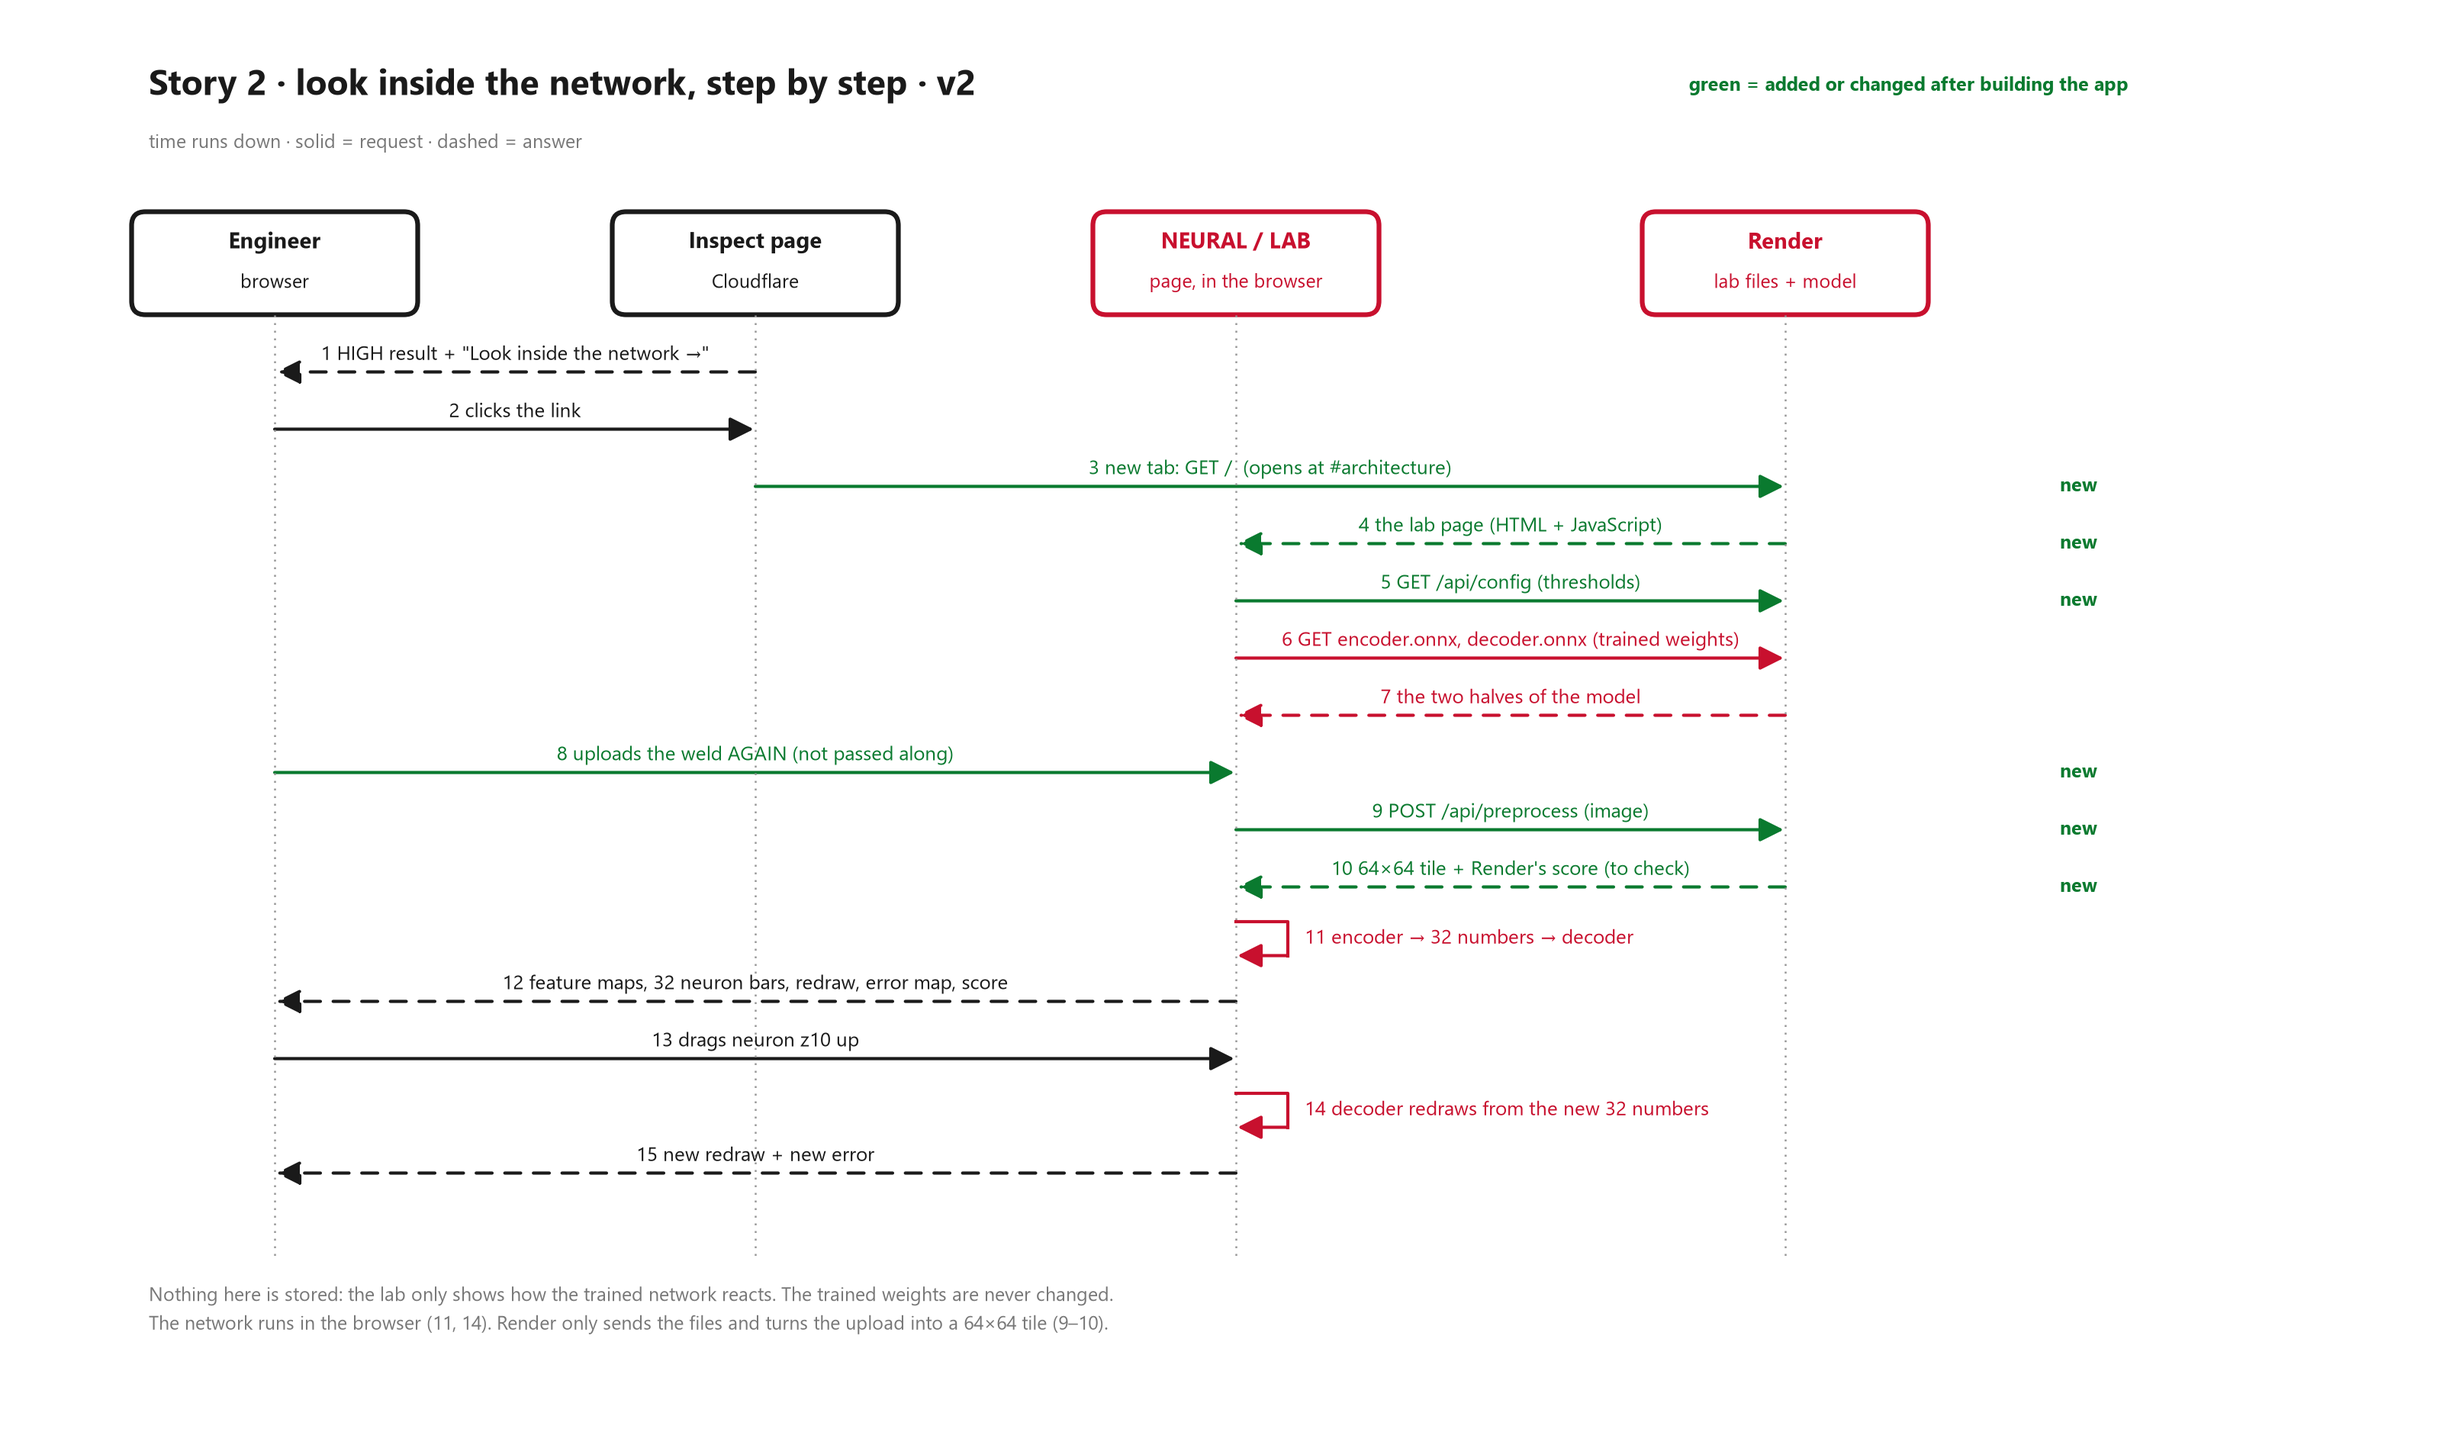
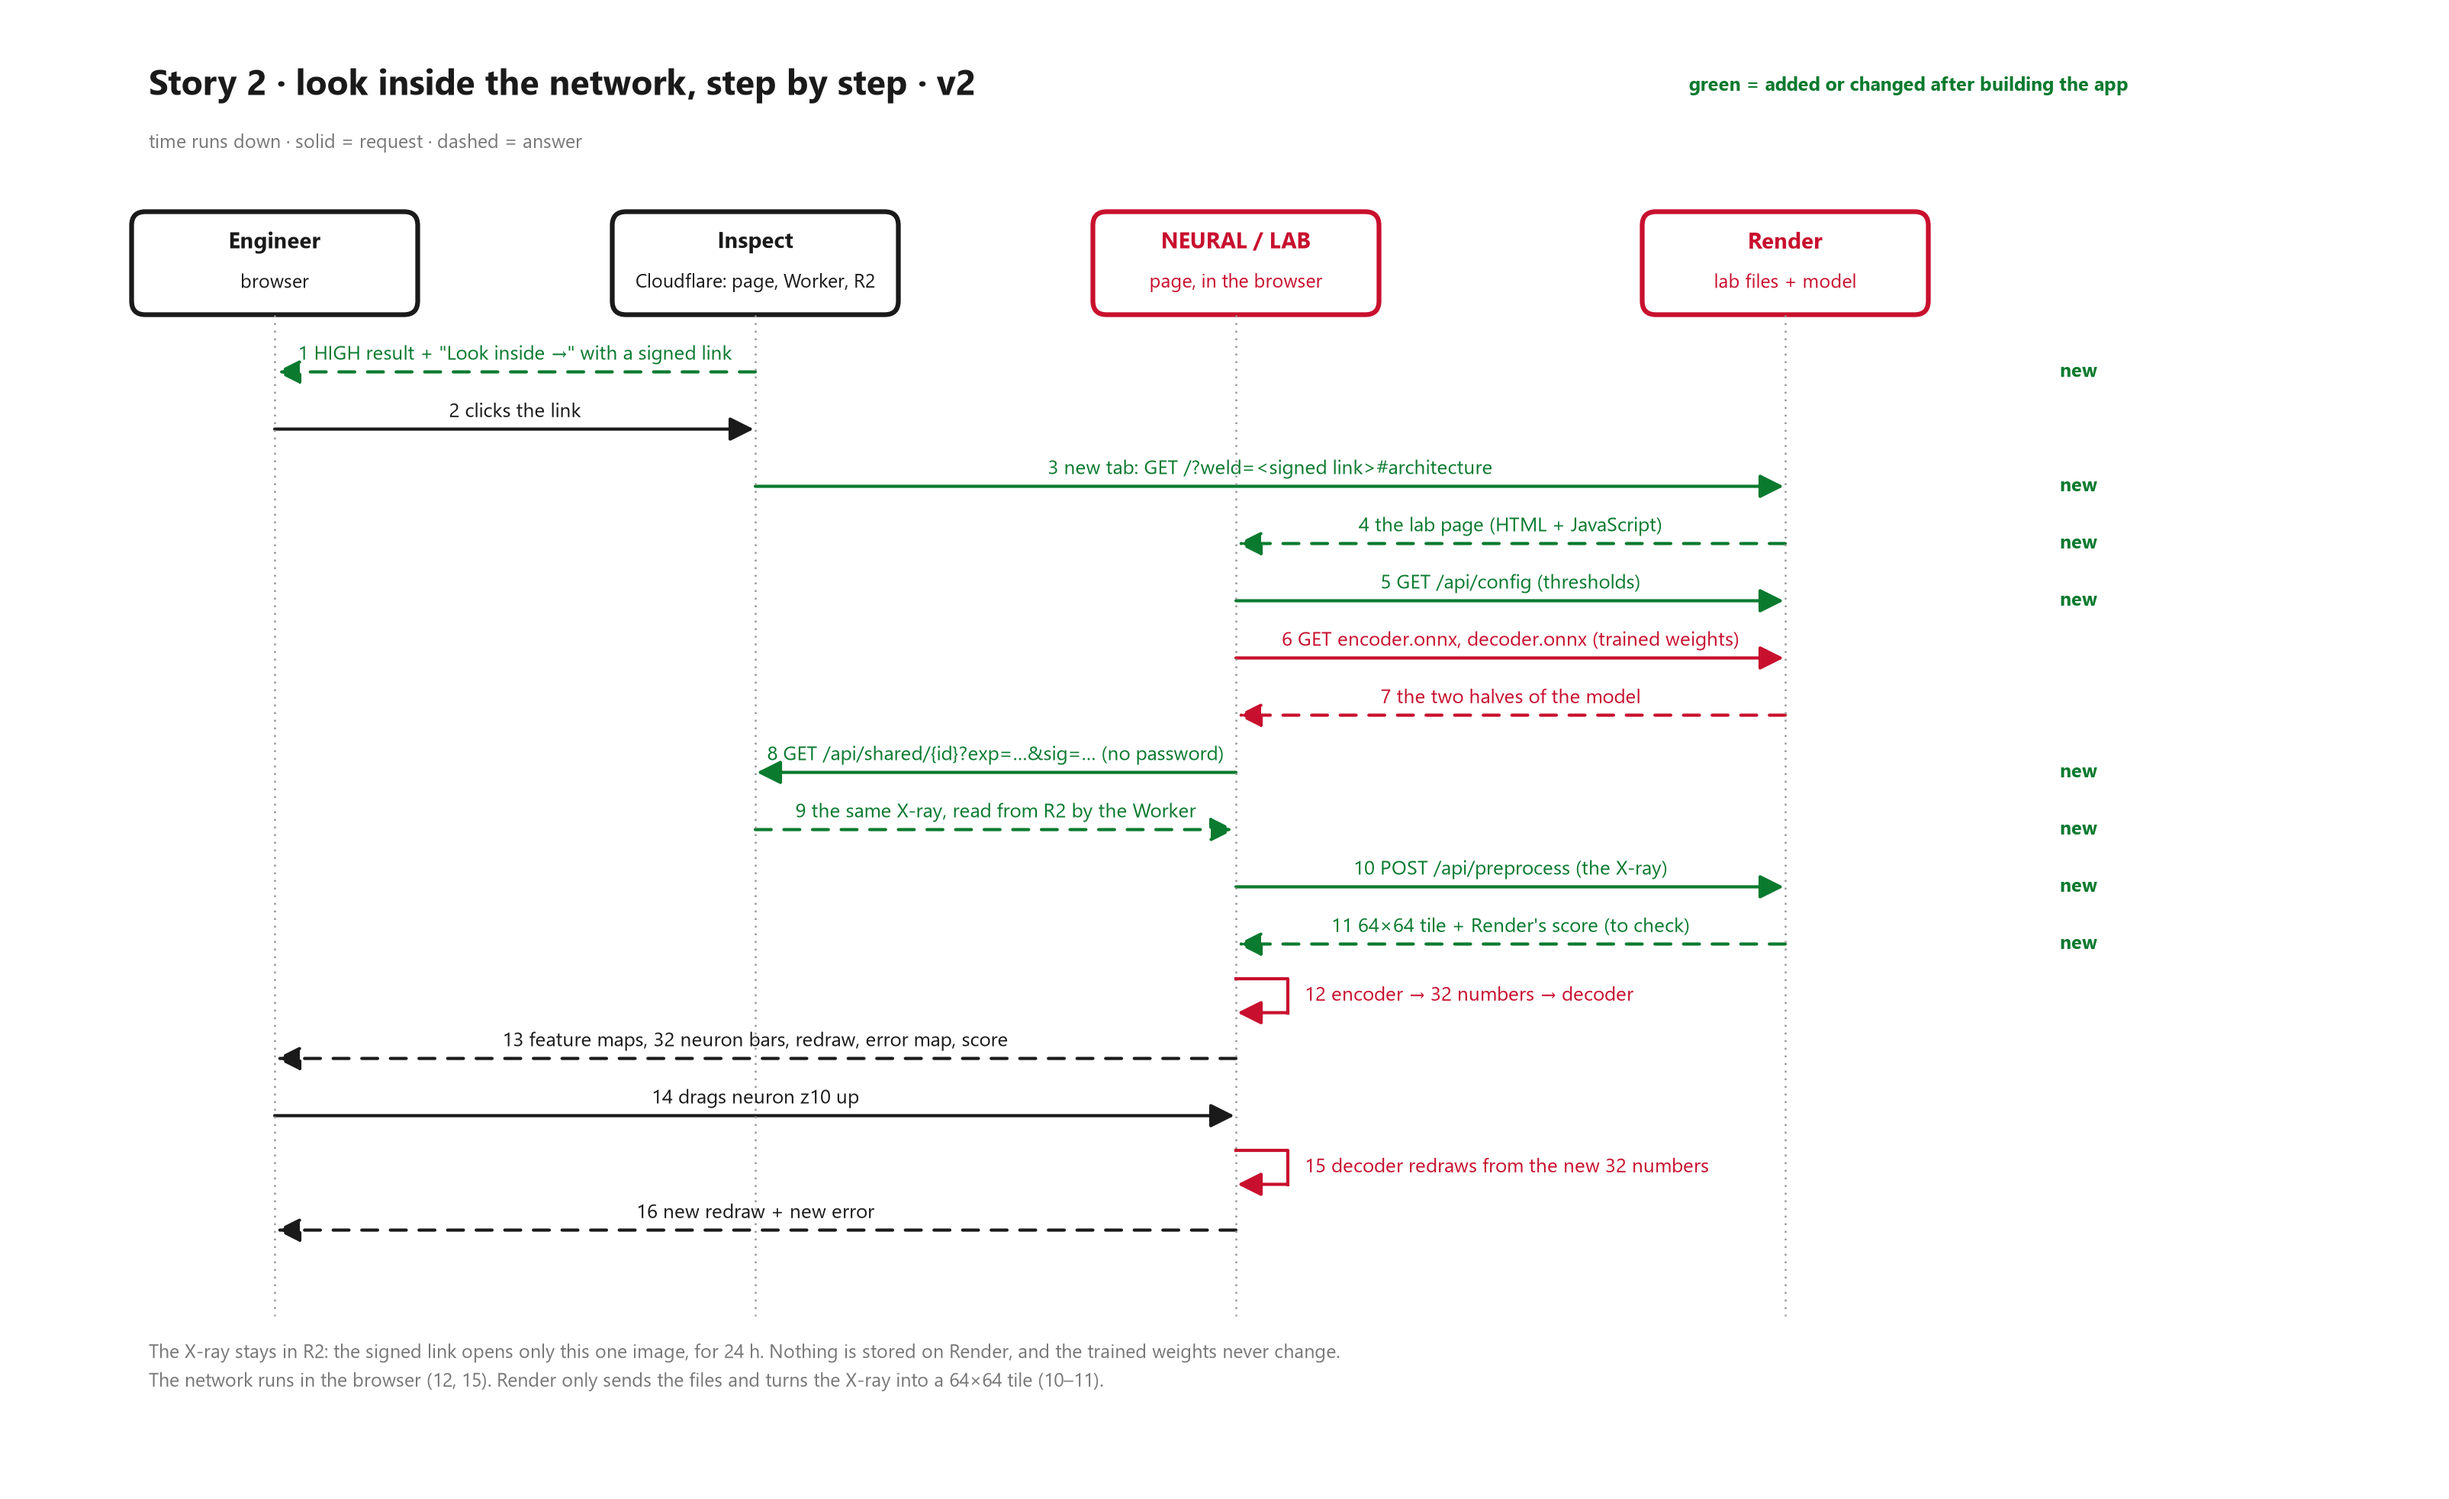
READMEs and after-the-app diagrams: Look inside opens the same X-ray through a signed R2 link

diff --git a/03_app/README.md b/03_app/README.md
@@ -2,7 +2,7 @@
 
 **Live app:** https://hackathon-team1-weld-app.pages.dev
 
-A password-protected web app for weld inspectors. You upload an X-ray tile of a weld; our model (a convolutional autoencoder that learned only from good welds) tries to redraw it. Where it can't, the error map lights up. The app shows a risk level (**LOW / CHECK / HIGH**), the score against the two thresholds, and three images side by side: the uploaded X-ray, the model's redraw and the error heat map. It saves every check so it is still there after a reload. A button opens **NEURAL / LAB · Look inside** (on Render), where you can look inside the same network.
+A password-protected web app for weld inspectors. You upload an X-ray tile of a weld; our model (a convolutional autoencoder that learned only from good welds) tries to redraw it. Where it can't, the error map lights up. The app shows a risk level (**LOW / CHECK / HIGH**), the score against the two thresholds, and three images side by side: the uploaded X-ray, the model's redraw and the error heat map. It saves every check so it is still there after a reload. A button opens **NEURAL / LAB · Look inside** (on Render) with **the same X-ray**, so you can see how the network handles it.
 
 It is a screening aid, not a verdict: a qualified inspector decides.
 
@@ -25,7 +25,7 @@ The app has one shared team password. It is given in the course hand-in, **not**
 
 **Why these services:** Render runs our Python model; Cloudflare runs the small, fast server code next to the page and has a database (D1) and file storage (R2) built in. Only the Worker talks to the model, the database and the files, so the password and the model address stay on the server.
 
-**Safety:** the Worker only accepts real PNG or JPEG files (it checks the file's first bytes, not its name), up to 5 MB. User input never goes into SQL text (`?` placeholders).
+**Safety:** the Worker only accepts real PNG or JPEG files (it checks the file's first bytes, not its name), up to 5 MB. User input never goes into SQL text (`?` placeholders). The only thing reachable without the password is one X-ray through a signed link (`/api/shared/{id}`), which expires after 24 hours and stops working if the id or the expiry is changed.
 
 ## Diagrams
 

diff --git a/README.md b/README.md
@@ -9,7 +9,7 @@
 | Part | Address | For |
 |---|---|---|
 | **NEURAL / LAB · Inspect** | **[hackathon-team1-weld-app.pages.dev](https://hackathon-team1-weld-app.pages.dev)** (Cloudflare, team password) | **Use** the model: upload a weld X-ray, get LOW / CHECK / HIGH and the error map; every check is saved (D1 + R2). See [03_app/](03_app/) |
-| **NEURAL / LAB · Look inside** | **[hackathon-team1-weld-anomaly.onrender.com](https://hackathon-team1-weld-anomaly.onrender.com)** (Render, public) | **Understand** the model: draw defects and look inside the network |
+| **NEURAL / LAB · Look inside** | **[hackathon-team1-weld-anomaly.onrender.com](https://hackathon-team1-weld-anomaly.onrender.com)** (Render, public) | **Understand** the model: draw defects and look inside the network. "Look inside the network →" in Inspect opens it with the same X-ray (a signed link to it in R2) |
 
 **NEURAL / LAB · Look inside, exploring the black box.** Our trained model runs live in your browser:
 - **Defect experiment:** draw a pore, crack or band on a real weld X-ray and watch the score, the risk level (LOW / CHECK / HIGH) and the error heatmap react as you draw.

diff --git a/02_model_server/README.md b/02_model_server/README.md
@@ -4,7 +4,7 @@ The model server of Team 1's hackathon project (AI Methods I, IAAC MaAI 2026/27)
 
 | Address | What |
 |---|---|
-| **https://hackathon-team1-weld-anomaly.onrender.com** | **NEURAL / LAB · Look inside** (`neural_lab/`): draw a defect on a real weld and watch the network react live, the architecture, the latent universe, a 90-second demo. The model runs **in the browser** |
+| **https://hackathon-team1-weld-anomaly.onrender.com** | **NEURAL / LAB · Look inside** (`neural_lab/`): draw a defect on a real weld and watch the network react live, the architecture, the latent universe, a 90-second demo. The model runs **in the browser**. Opened from NEURAL / LAB · Inspect, `?weld=<signed link>` loads the X-ray the inspector checked (from Cloudflare R2) |
 | **…/gradio** + `/predict` API | **API only, for programs:** send an image, get JSON back (no page for people any more; the app is NEURAL / LAB). The Cloudflare web app uses it (`MODEL_URL` = `https://hackathon-team1-weld-anomaly.onrender.com/gradio`) |
 
 Free Render service: it sleeps after 15 minutes without requests, and the first request then takes about a minute.
